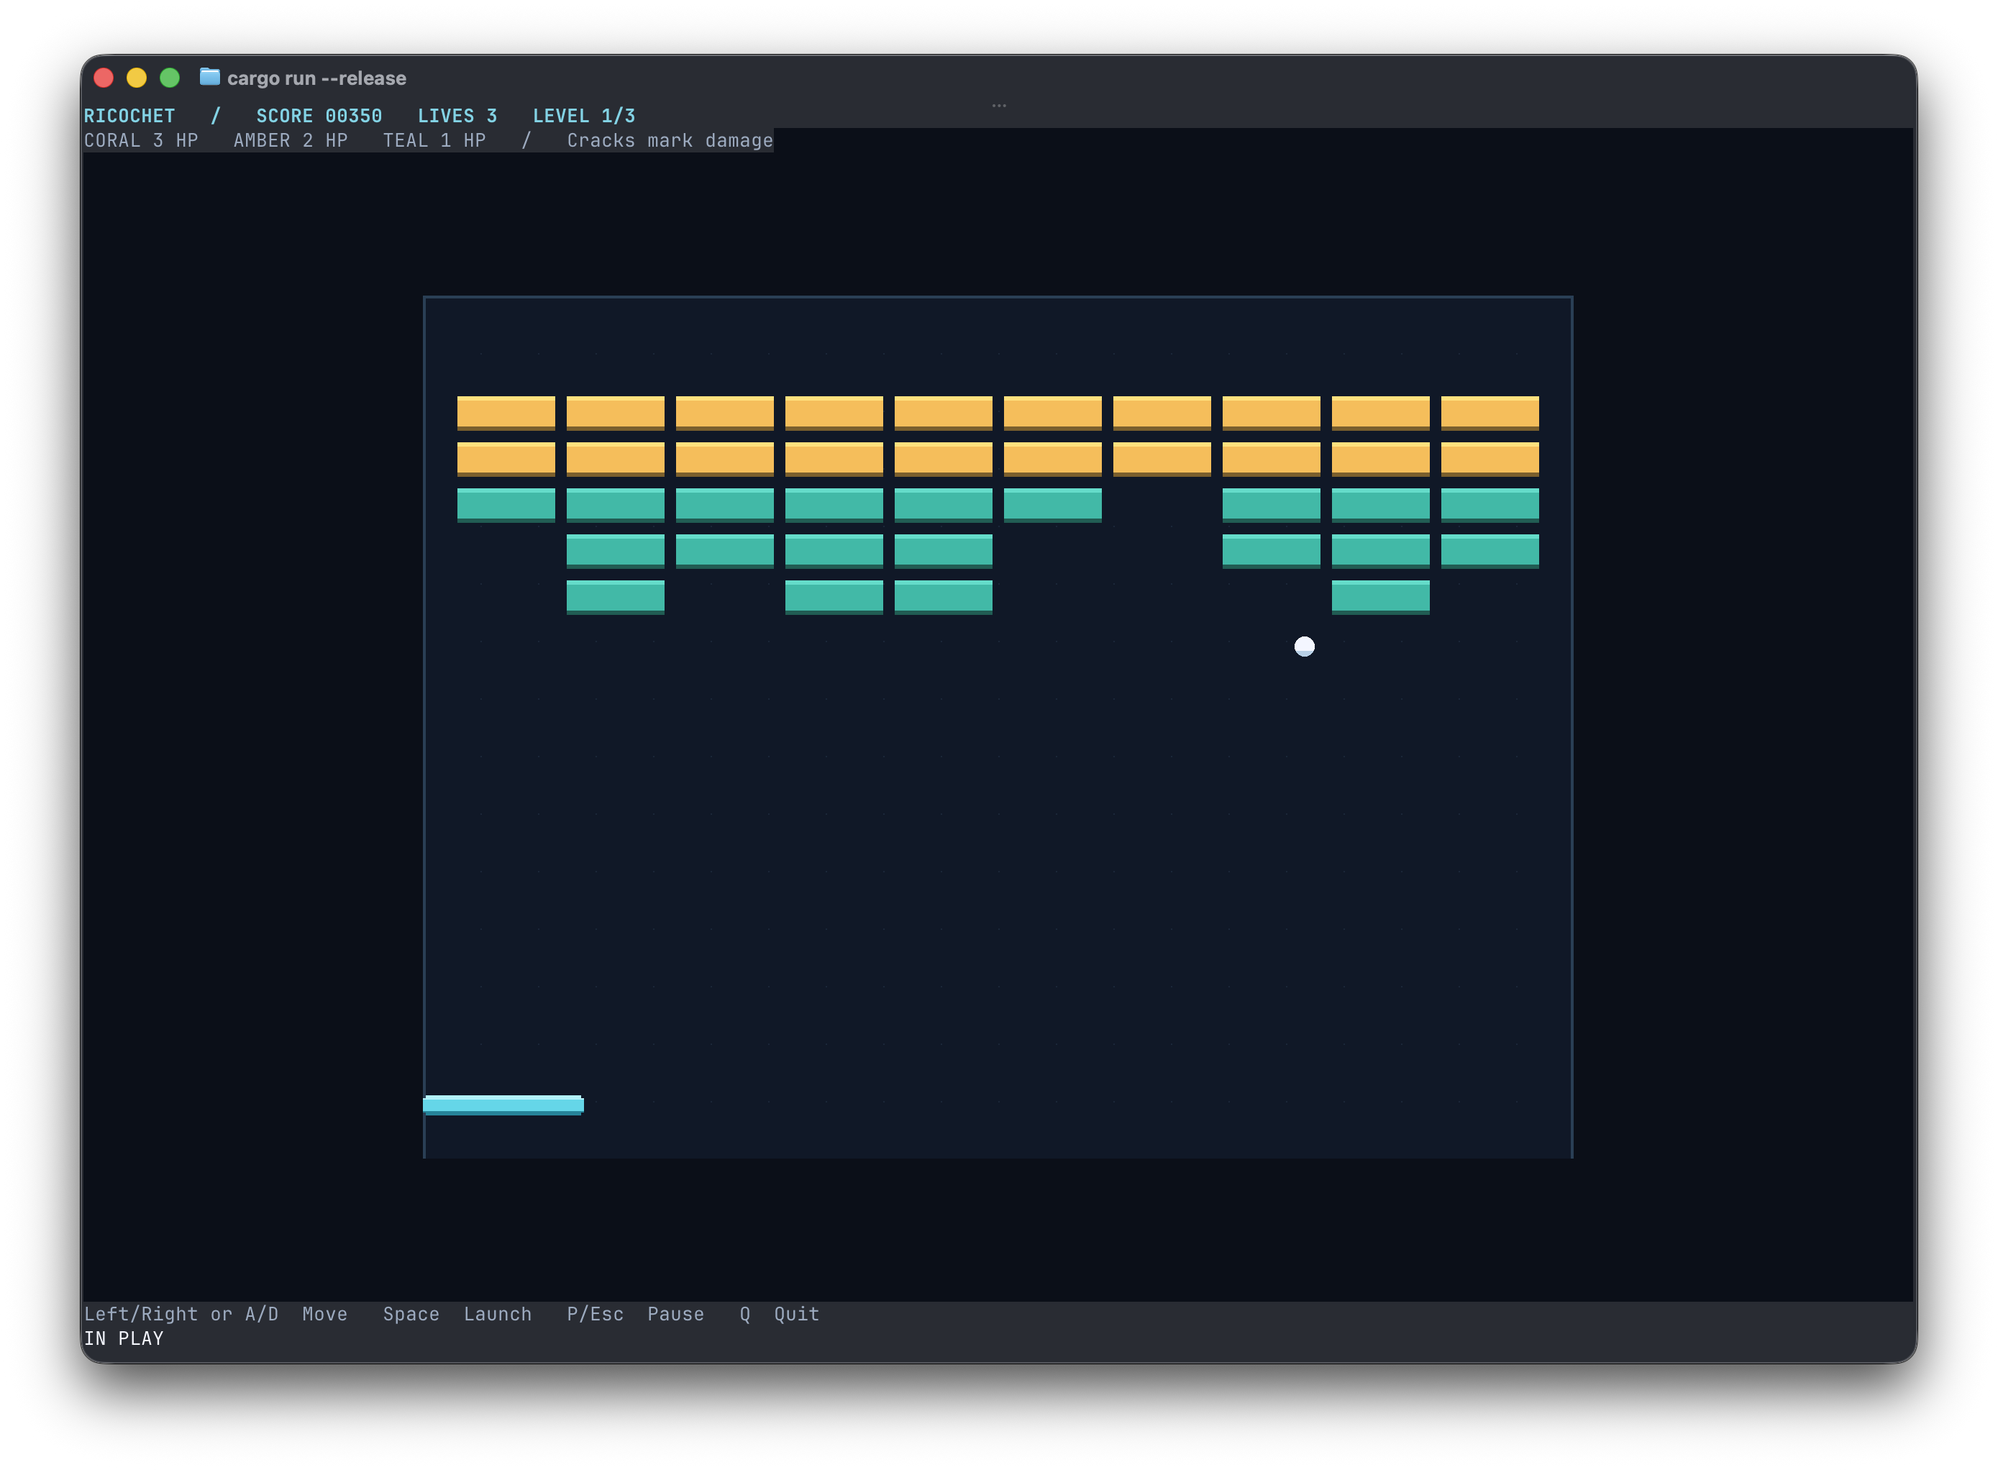
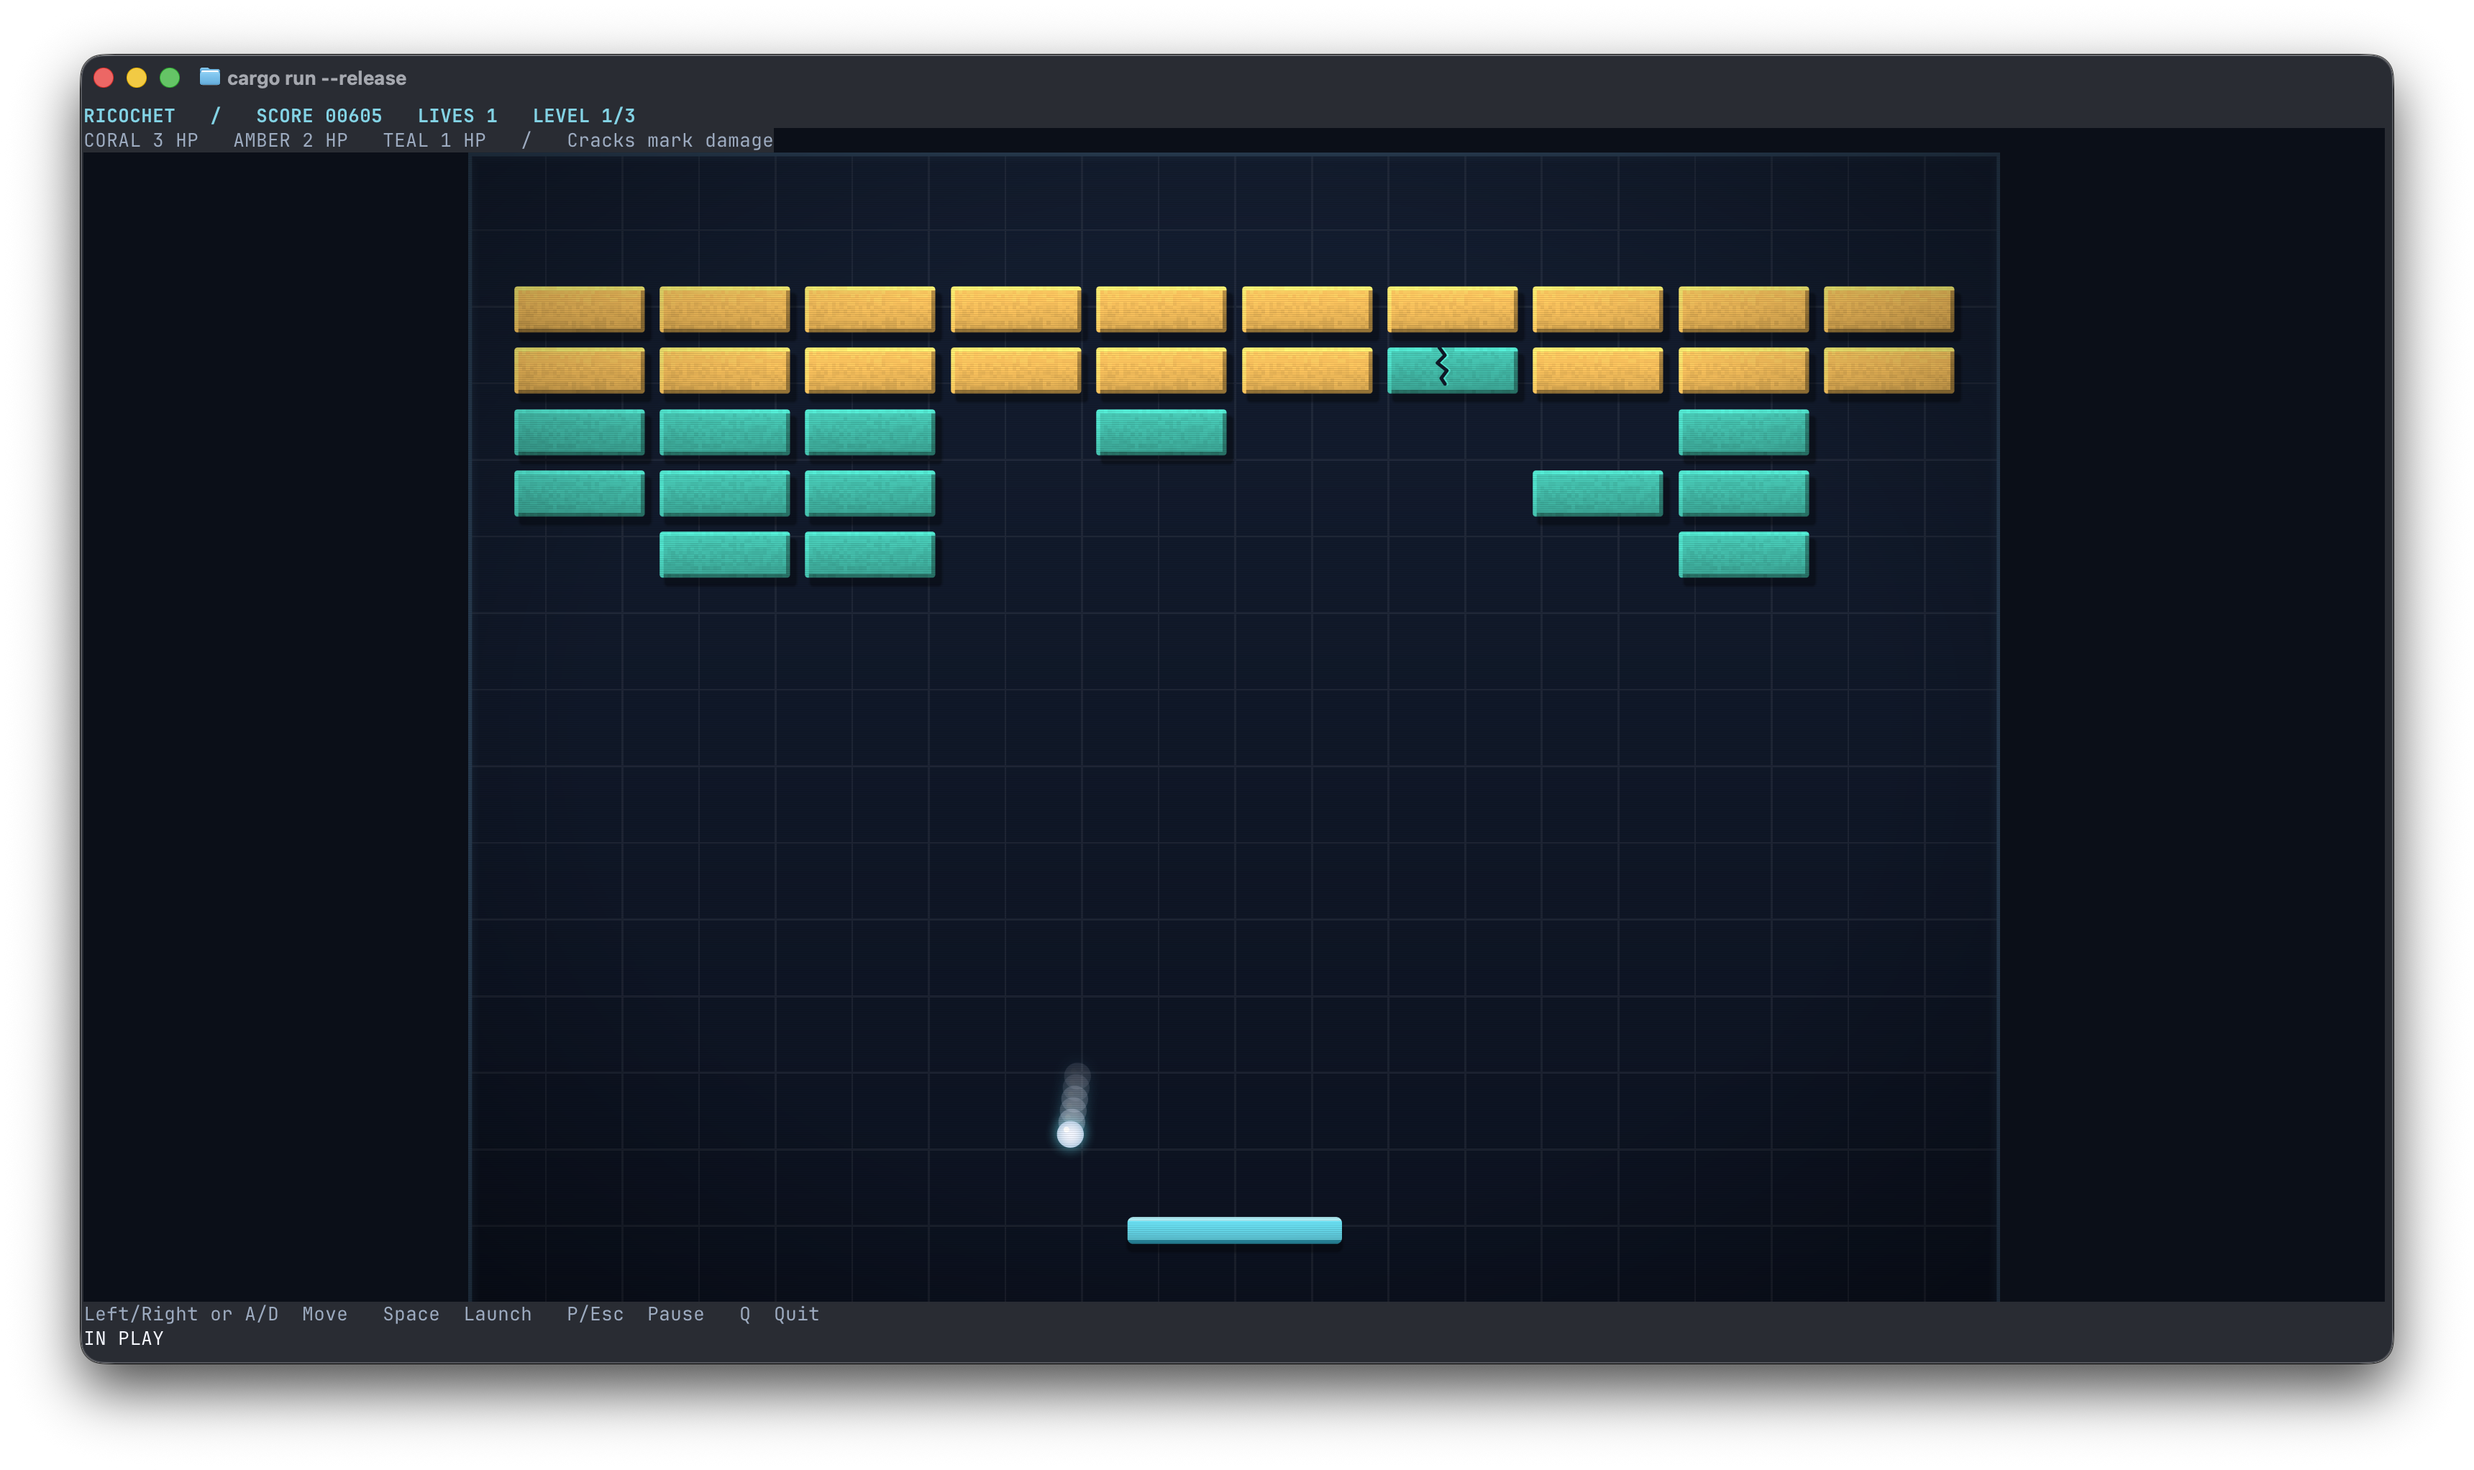
Adjusted README

diff --git a/README.md b/README.md
@@ -7,14 +7,30 @@
 [![License: MIT](https://img.shields.io/badge/License-MIT-green.svg)](LICENSE)
 
 <p align="center">
-  <img src="images/ricochet.png" alt="Ricochet 0.1 gameplay preview" width="900" />
+  <img src="images/ricochet.png" alt="Ricochet 0.2.0 gameplay with shaded bricks, shadows and a glowing ball trail" width="900" />
+  <br />
+  <em>Ricochet 0.2.0 gameplay.</em>
 </p>
 
-Breakout, reimagined in the terminal with Kitty graphics. The image above shows 0.1; release 0.2 adds the procedural artwork and effects described below.
+Breakout in your terminal, with pixel graphics, smooth motion and deterministic
+gameplay. Clear three levels with three lives, using arrows or A/D to steer.
+The playfield uses Kitty graphics; scores, controls and state messages remain
+ordinary terminal text.
 
-Ricochet is a terminal-first Breakout game that showcases what is possible when a Rust app uses the Kitty graphics protocol instead of a traditional GUI. The playfield is rendered as a compact, pixel-accurate scene with sub-cell motion, layered sprite placement, and a HUD that stays crisp in ordinary terminal text. The result is a game that feels like a real graphical application while staying fast, portable, and easy to run directly from the shell.
+## New in 0.2.0
 
-This project demonstrates the practical side of Kitty graphics: dynamic sprite generation, frame batching, geometry-aware scaling, letterboxed presentation, and responsive input handling in a real-time game loop. The gameplay remains intentionally compact and deterministic, with three handcrafted levels, a fixed physics timestep, and a clean terminal lifecycle that restores the screen safely when the app exits.
+- Anti-aliased procedural art: gradient bricks, bevels, damage cracks, shadows,
+  ball glow, a grid background and a scanline/vignette overlay.
+- Ball trails, hit flashes, brick shatter, debris, paddle squash and screen shake,
+  plus a pixel-font title and state banners.
+- `--fx full|reduced|off`, so you can reduce motion and terminal output or keep
+  only the static artwork. All modes retain the same gameplay.
+- Compressed sprite atlases and a scale cap of **3 physical pixels per logical
+  unit** when zlib uploads are available; otherwise uploads remain uncompressed
+  and the cap stays at **2**. The playfield stays centred and letterboxed.
+
+All artwork and lettering are generated in Rust, with no external assets. Physics
+still runs at 120 Hz, independently of the selected 30 or 60 FPS render rate.
 
 ## Run
 
@@ -32,6 +48,10 @@ cargo run -- --help
 cargo run -- --version
 ```
 
+The defaults are **60 FPS** and **full effects**. Use `--fx reduced` for fewer
+particles, a shorter trail and no shake or overlay; `--fx off` keeps the new art
+and static banners without transient effects.
+
 Use at least **80 columns × 30 rows**, with enough physical pixels for a
 **400 × 300** playfield after reserving four text rows. A larger window improves
 detail. Resize suspension preserves progress; press **P** or **Esc** after
@@ -44,6 +64,20 @@ capabilities cause a clean exit with an explanation. An additional bounded probe
 checks zlib uploads; rejection or no reply selects uncompressed uploads and a
 2.0 scale cap, without preventing startup. `TERM`/`TERM_PROGRAM` are
 not used as capability evidence.
+
+## Why Ghostty?
+
+Ricochet targets Ghostty 1.4+ and uses the Kitty protocols for both graphics and
+input. RGBA sprites and within-cell pixel offsets let the ball move smoothly
+between character cells. Enhanced keyboard reporting supplies press, repeat and
+release events for arrows and ordinary letters, so held A/D movement stops when
+you release the key.
+
+Cached images, atlas source rectangles and placement diffing keep animation
+traffic small. Synchronized updates, when supported, group each frame into one
+visible update. Startup checks capabilities instead of relying on the terminal's
+name. Native visual and input acceptance is tracked separately in the
+[verification report](verification/REPORT.md).
 
 ## Controls
 
